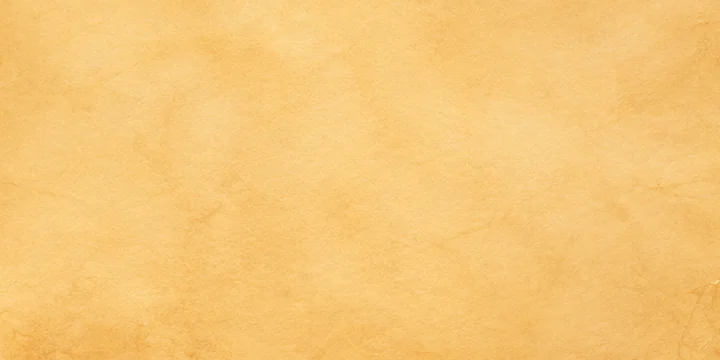
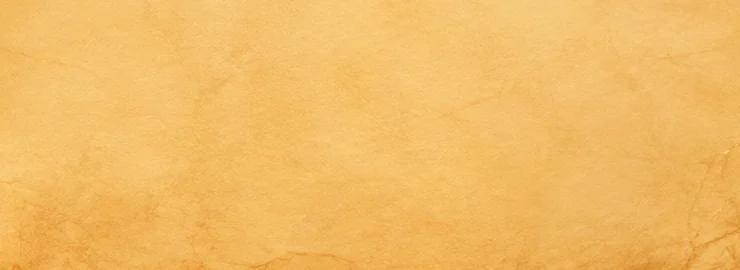
Close the seam between the scroll and the sheet
Three small things, all about the join. The artwork's dead backdrop above
and below the scroll is cropped away -- nothing is drawn there and every
pixel of it was height the menu had to scroll past. The sheet's paper is
re-toned to the exact colour the parchment has at its torn bottom edge,
where the two meet, instead of being a lighter patch from the middle. And
the sheet tucks a little further under that edge.

Claude-Session: https://claude.ai/code/session_017uWVXK9qdLmFHfGAKwoKYB

diff --git a/src/site.css b/src/site.css
@@ -1638,7 +1638,7 @@
 .site-menu__crown {
   position: relative;
   display: grid;
-  aspect-ratio: 1672 / 941;
+  aspect-ratio: 1672 / 884;
   background: url("/assets/menu-scroll.webp") center / 100% 100% no-repeat;
   place-items: center;
 }
@@ -1652,9 +1652,10 @@
 }
 
 /* The sheet the links are written on. It is pulled up under the scroll's
- * torn bottom edge so the two read as one piece of parchment. */
+ * torn bottom edge, and its paper was re-toned to the exact colour of that
+ * edge, so the two read as one sheet rather than two. */
 .site-menu__sheet {
-  margin-top: -7%;
+  margin-top: -9.5%;
   padding: clamp(1rem, 3vw, 1.6rem) clamp(1.4rem, 5vw, 3rem) clamp(1.6rem, 4vw, 2.4rem);
   background: url("/assets/menu-parchment.webp") center / 100% 100% no-repeat;
   /* The sheet's own torn edge at the foot, cut rather than drawn: a soft
